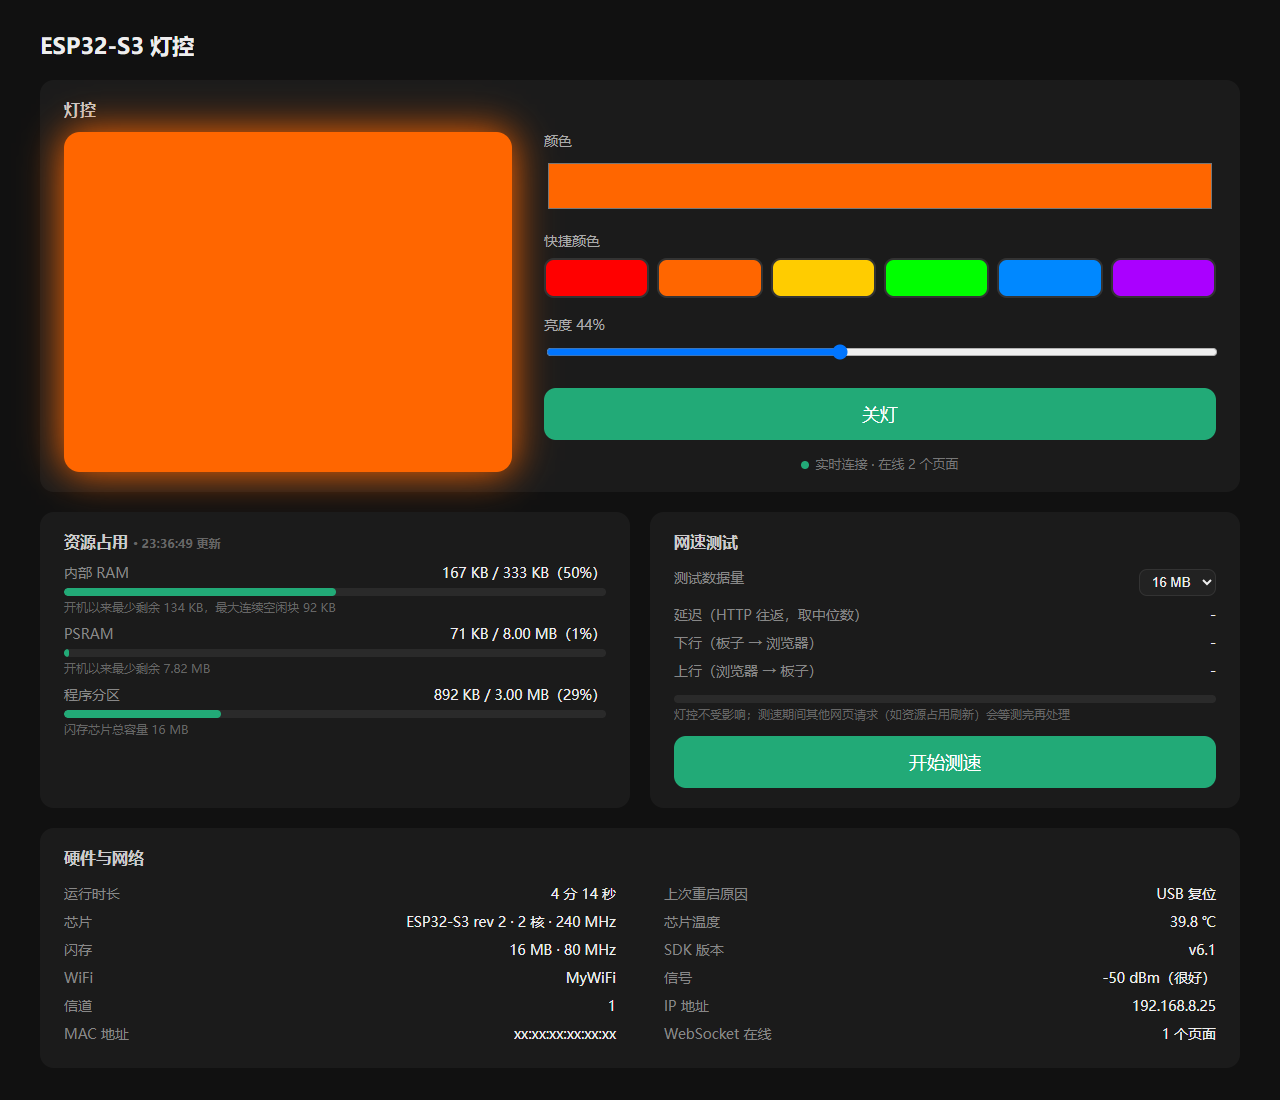
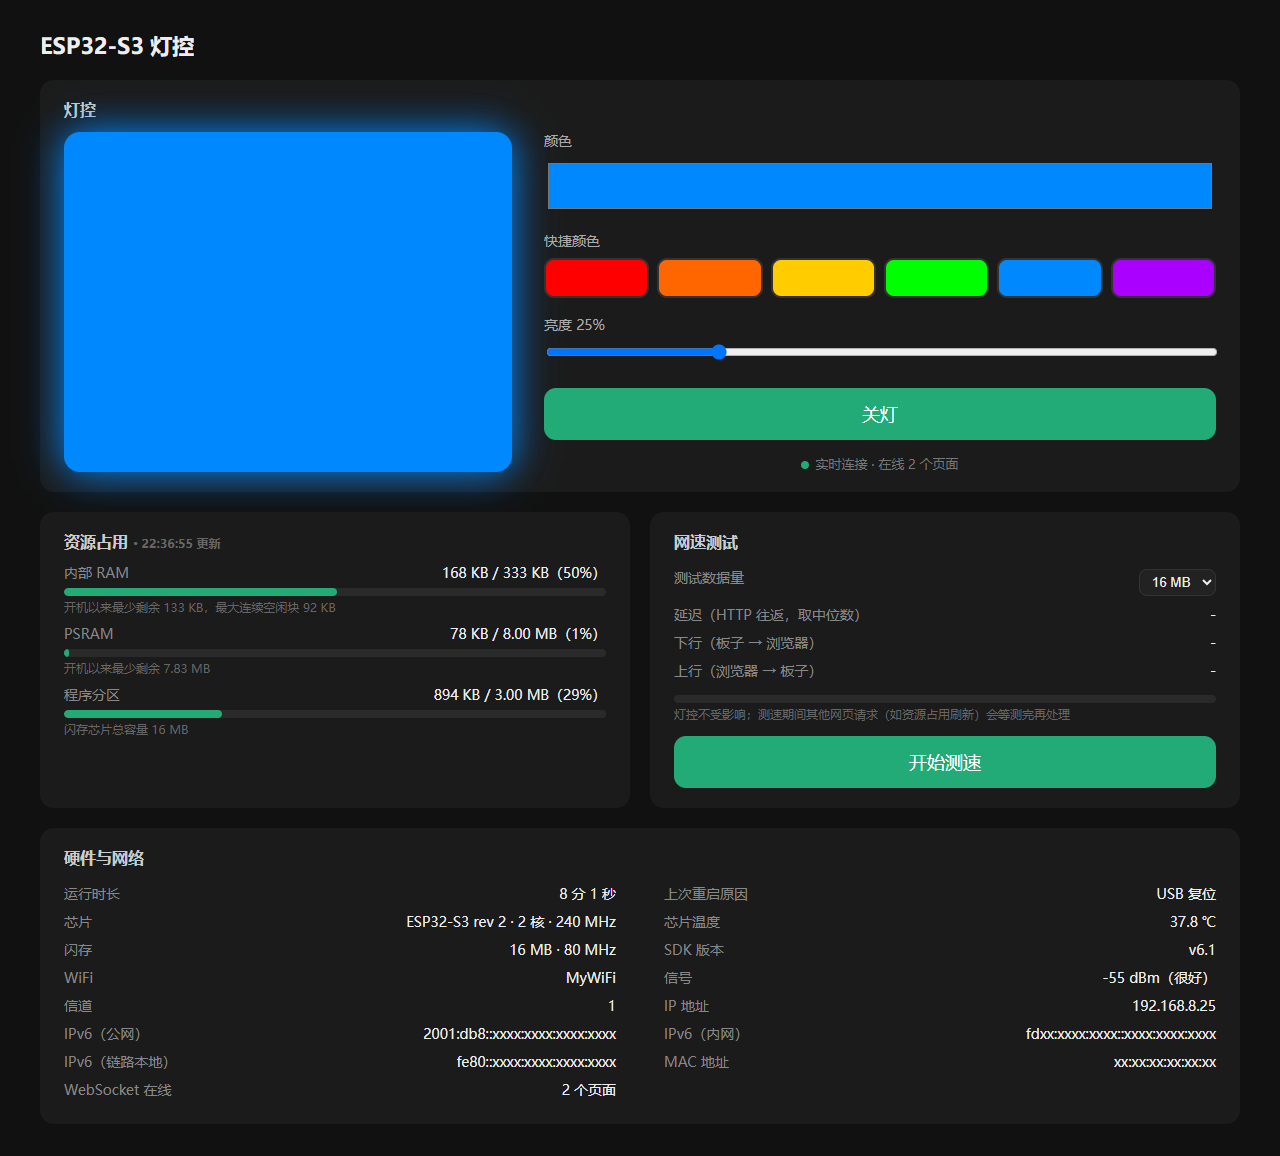
更新网页截图，加入 IPv6 地址显示（已打码）

diff --git a/README.md b/README.md
@@ -11,7 +11,7 @@
   <img src="docs/screenshot-mobile.png" alt="手机端页面" width="28%">
 </p>
 
-截图里的 WiFi 名称和 MAC 地址已替换成占位文字。
+截图里的 WiFi 名称、MAC 地址和 IPv6 地址已替换成占位文字。
 
 ## 硬件与环境
 
